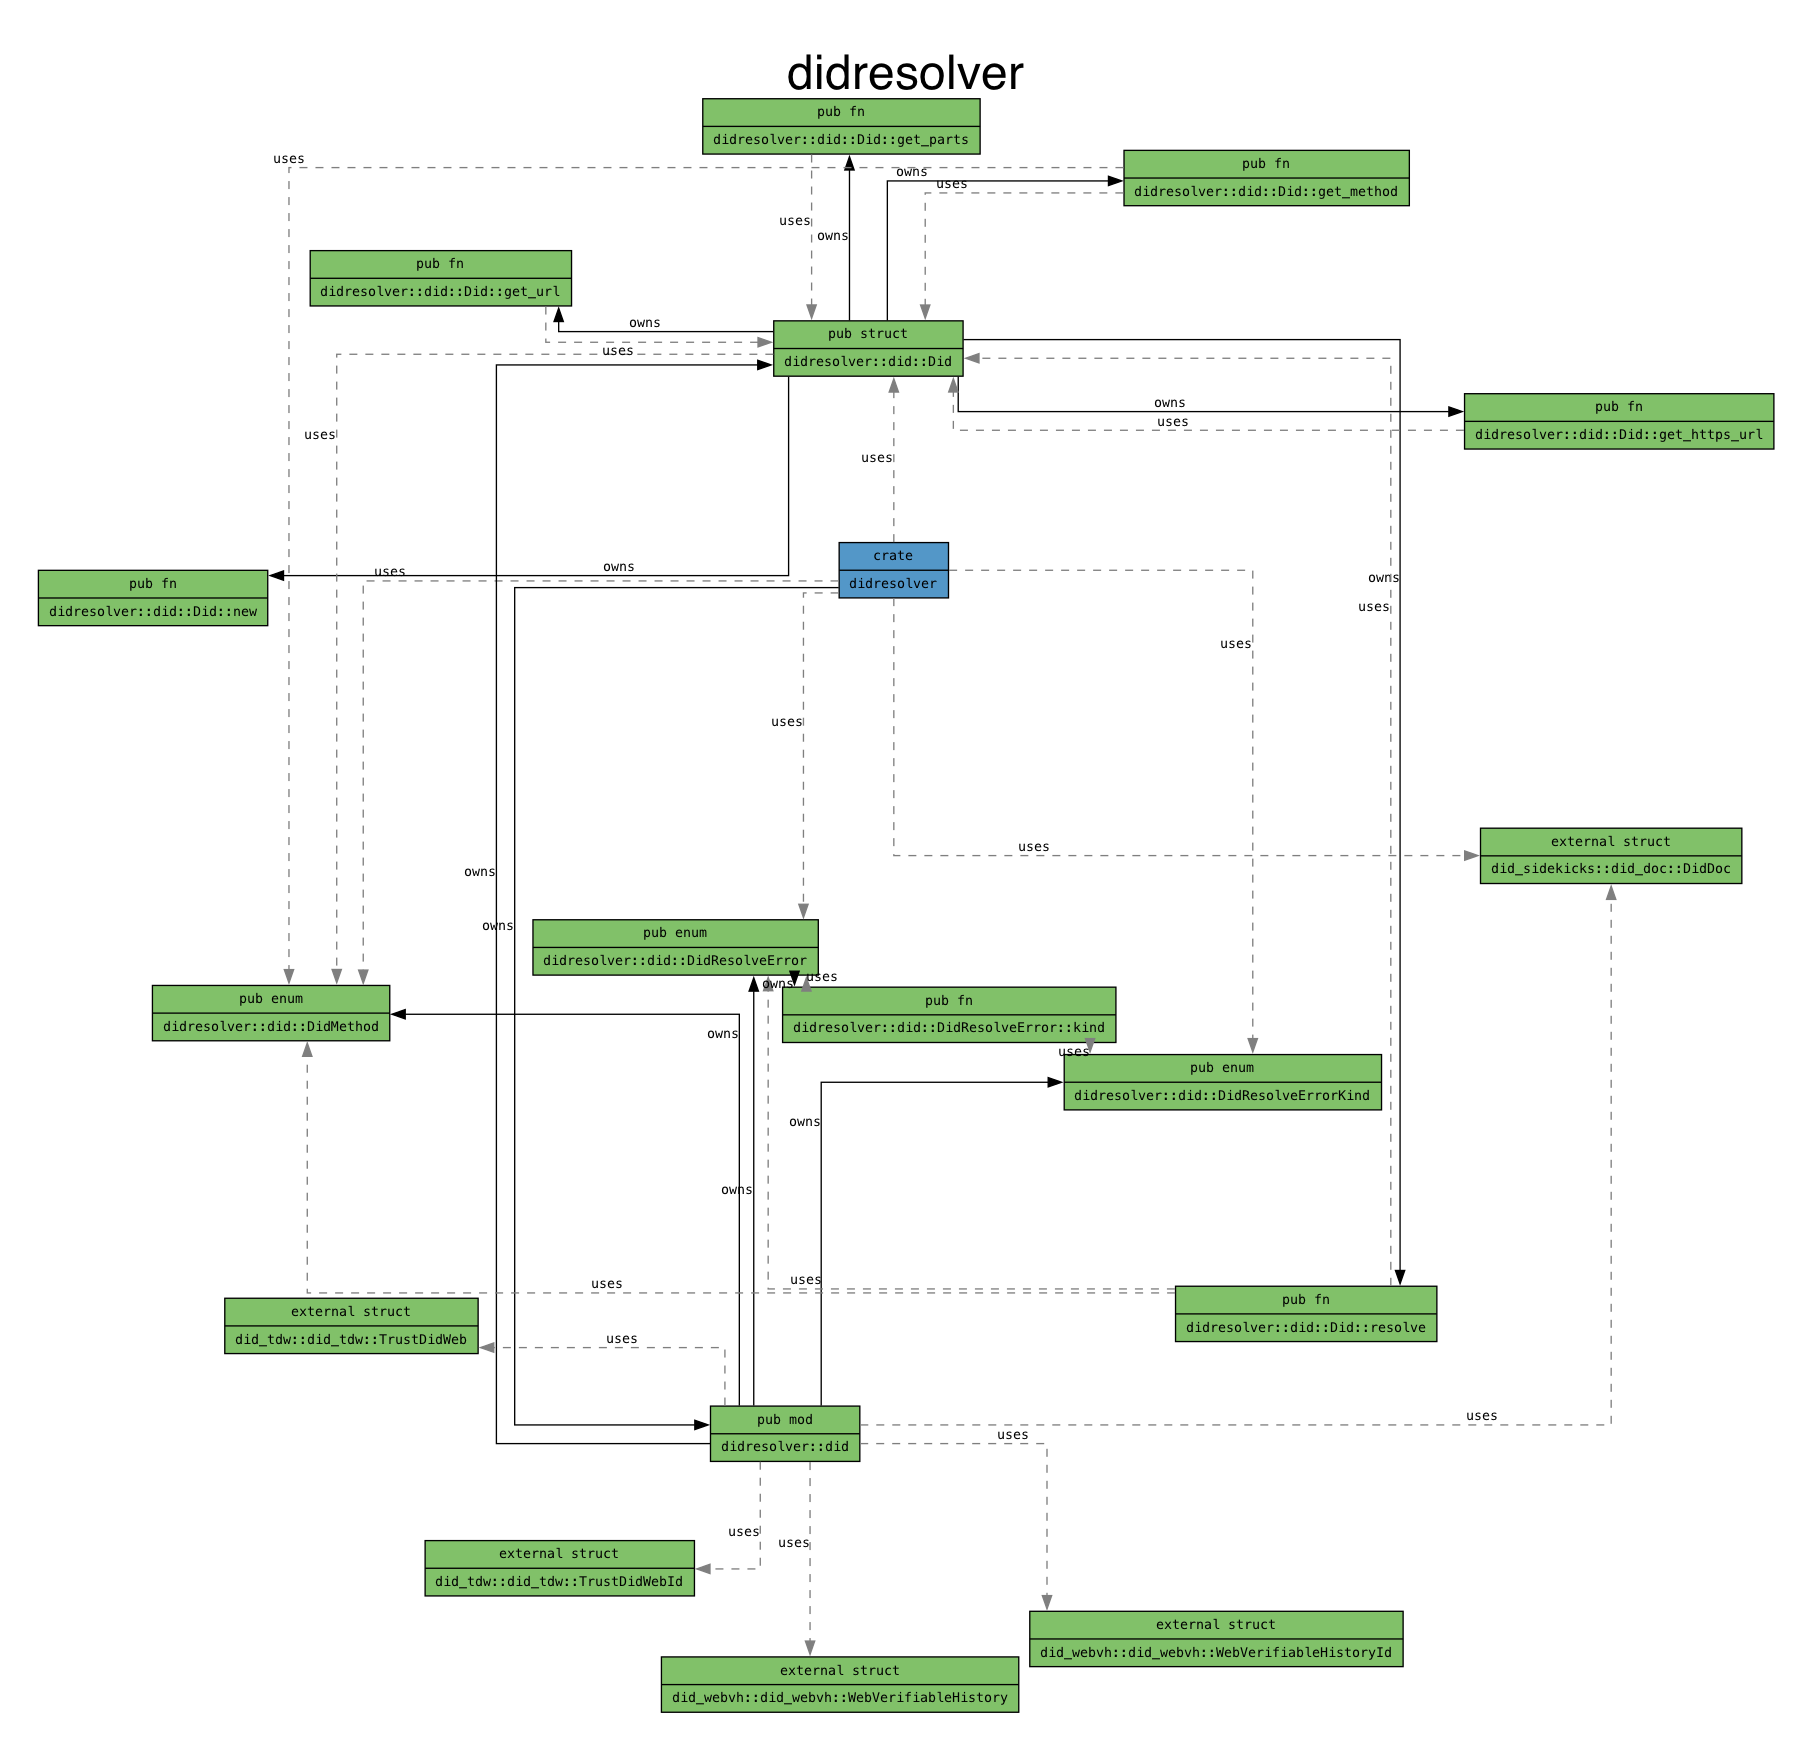
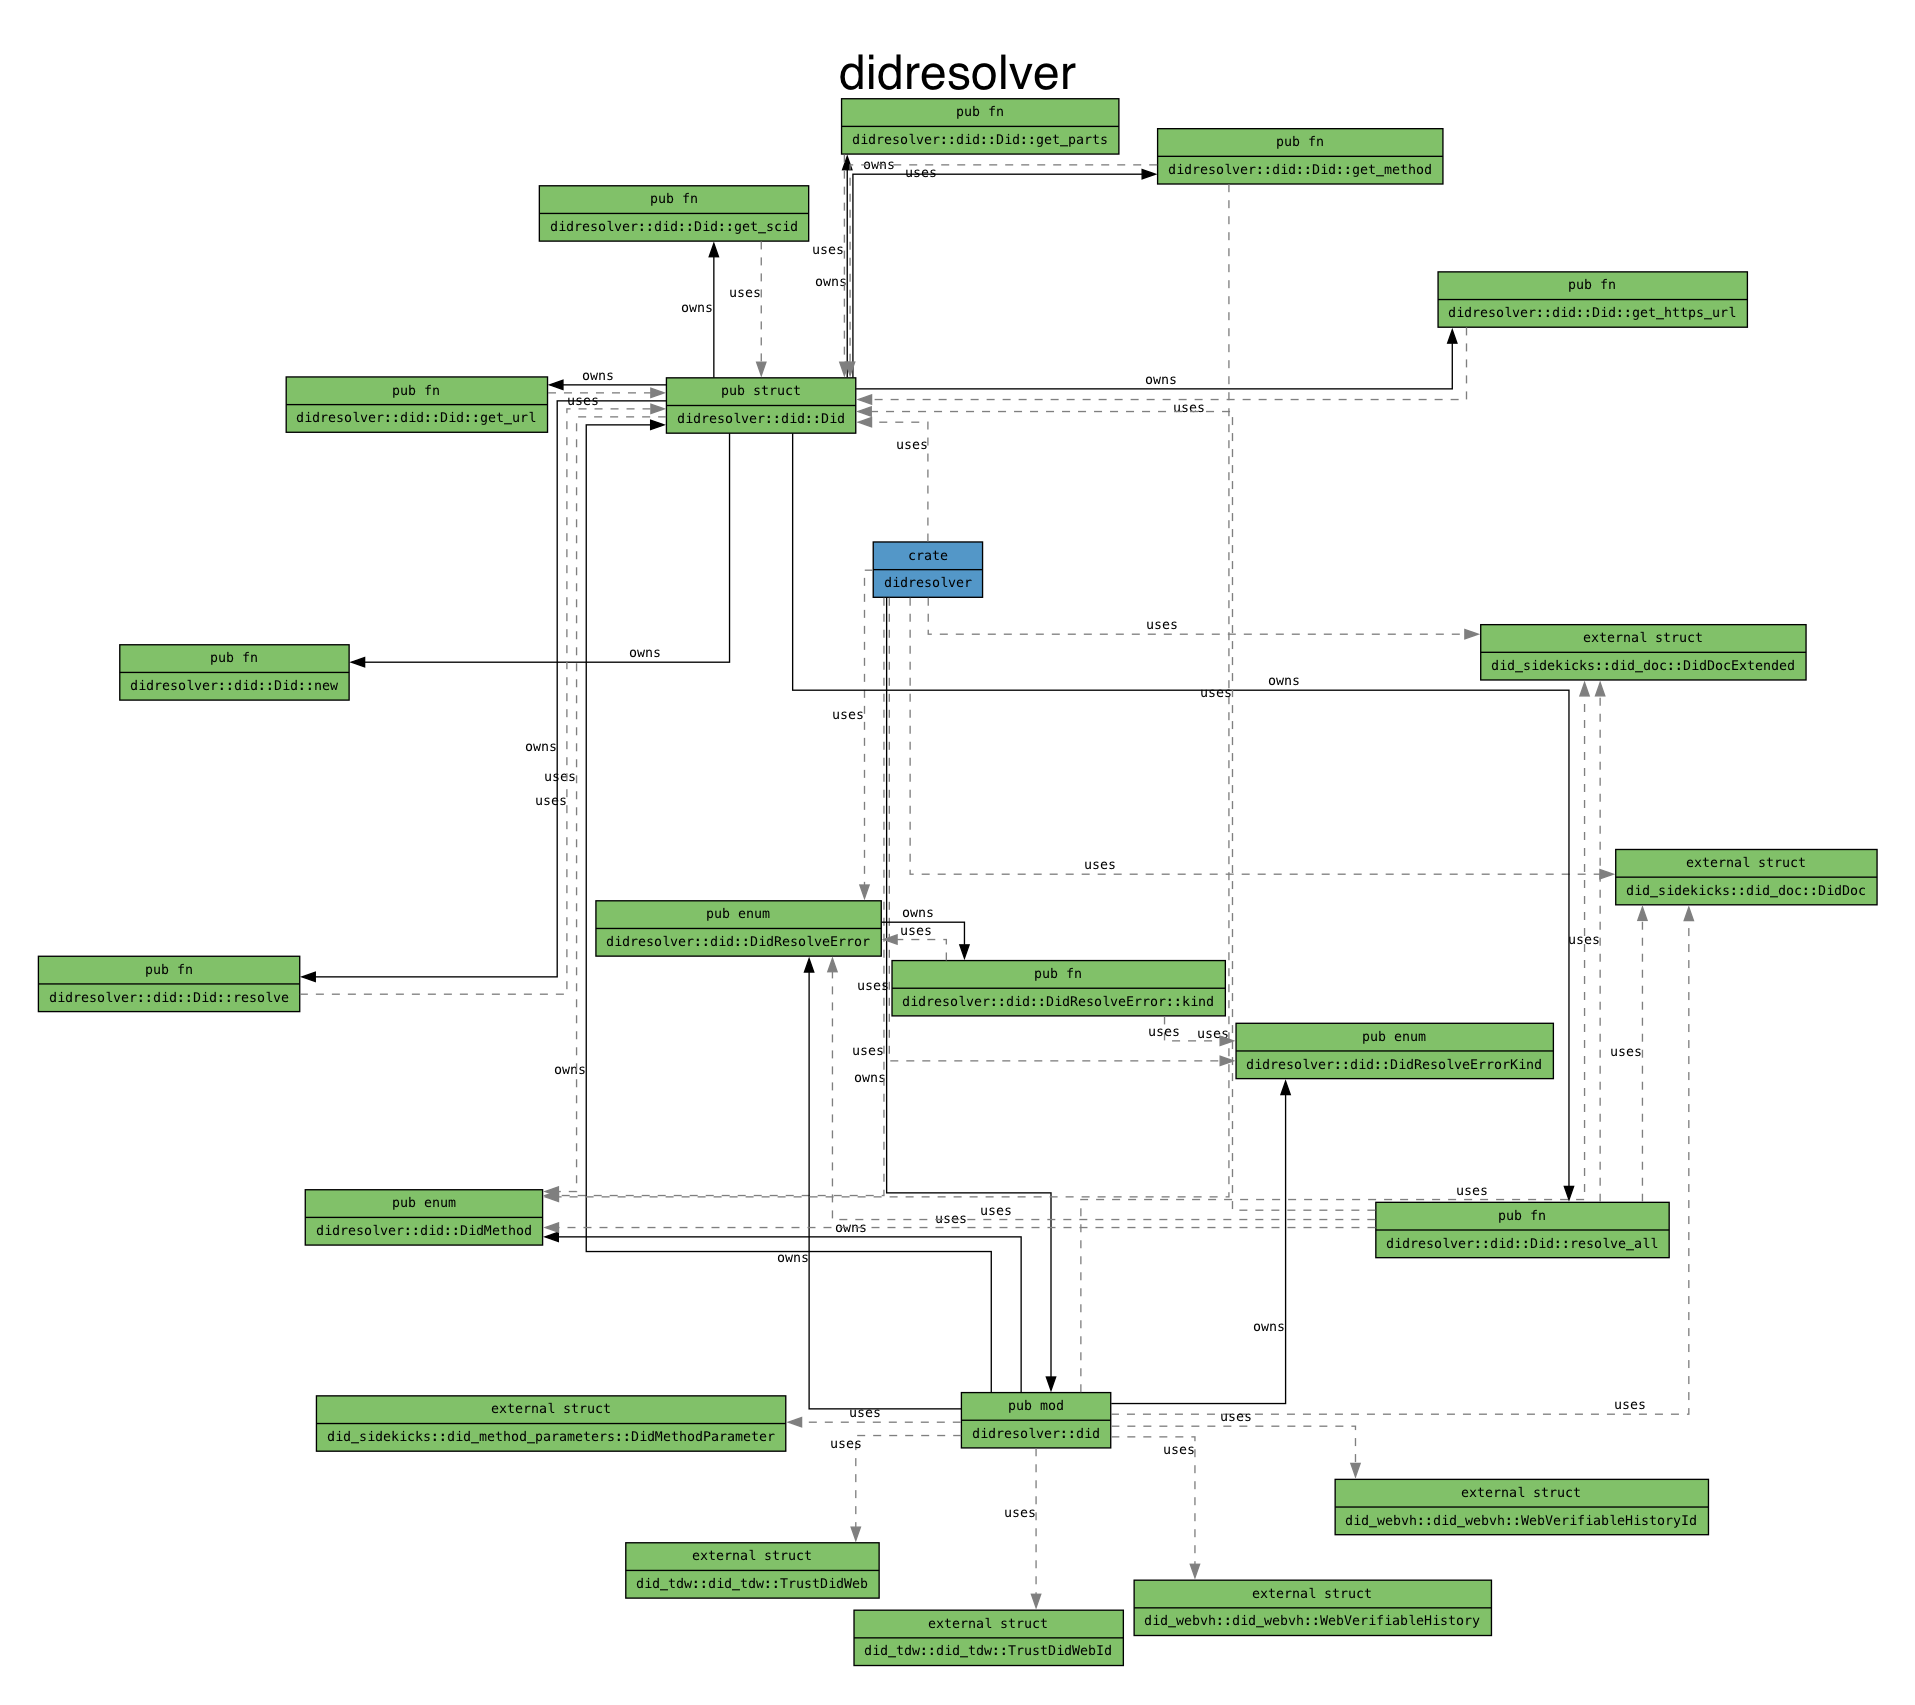
EIDOMNI-126: Did::resolve method deprecated in favor new and more potent Did::resolve_all method delivering DID method parameters

diff --git a/src/did.rs b/src/did.rs
@@ -1,8 +1,10 @@
 // SPDX-License-Identifier: MIT
 
-use did_sidekicks::did_doc::DidDoc;
+use did_sidekicks::did_doc::{DidDoc, DidDocExtended};
+use did_sidekicks::did_method_parameters::DidMethodParameter;
 use did_tdw::did_tdw::{TrustDidWeb, TrustDidWebId};
 use did_webvh::did_webvh::{WebVerifiableHistory, WebVerifiableHistoryId};
+use std::collections::HashMap;
 use std::fmt::{Display, Formatter};
 use std::sync::Arc;
 use strum::{AsRefStr as EnumAsRefStr, Display as EnumDisplay};
@@ -136,23 +138,68 @@ impl Did {
     /// information required to narrow down the root cause.
     ///
     /// A UniFFI-compliant method.
+    #[deprecated(since = "2.2.0", note = "please use more potent `resolve_all` instead")]
     pub fn resolve(&self, did_log: String) -> Result<Arc<DidDoc>, DidResolveError> {
+        match self.resolve_all(did_log) {
+            Ok(resolve_all) => Ok(Arc::new(resolve_all.get_did_doc_obj())),
+            Err(err) => Err(err),
+        }
+    }
+
+    /// The essential method of [`Did`] implementing *Read (Resolve)* DID method operation for:
+    /// - [a `did:tdw` DID](https://identity.foundation/didwebvh/v0.3/#read-resolve) as well as for
+    /// - [a `did:webvh` DID](https://identity.foundation/didwebvh/v1.0/#read-resolve)
+    ///
+    /// In case of error, the available [`DidResolveError`] object features all the detailed
+    /// information required to narrow down the root cause.
+    ///
+    /// Compared to [`Did::resolve`] method, it delivers some additional information
+    /// (the DID processing parameters) used by the `DID Controller`
+    /// when publishing the current and subsequent `DID log entries`. [`DidDocExtended::get_did_method_parameters`]
+    ///
+    /// A UniFFI-compliant method.
+    pub fn resolve_all(&self, did_log: String) -> Result<Arc<DidDocExtended>, DidResolveError> {
         match self.method {
             DidMethod::TDW => match TrustDidWeb::read(self.to_string(), did_log) {
-                Ok(tdw) => match tdw.get_did_doc_obj() {
-                    Ok(doc) => Ok(doc),
-                    Err(e) => Err(DidResolveError::InvalidDidDoc(e.to_string())),
-                },
+                Ok(read_obj) => {
+                    // CAUTION The try_into() method call is possible here as
+                    //         TrustDidWeb type implements the required trait
+                    let did_method_parameters: HashMap<String, Arc<DidMethodParameter>> =
+                        match read_obj.get_did_method_parameters_obj().try_into() {
+                            Ok(did_method_parameters) => did_method_parameters,
+                            Err(err) => {
+                                return Err(DidResolveError::InvalidDidLog(format!("{err}")));
+                            }
+                        };
+
+                    Ok(Arc::new(DidDocExtended::new(
+                        read_obj.get_did_doc_obj(),
+                        did_method_parameters,
+                    )))
+                }
                 Err(e) => Err(DidResolveError::InvalidDidLog(e.to_string())),
             },
             DidMethod::WEBVH => match WebVerifiableHistory::read(self.to_string(), did_log) {
-                Ok(web_vh) => match web_vh.get_did_doc_obj() {
-                    Ok(doc) => Ok(doc),
-                    Err(e) => Err(DidResolveError::InvalidDidDoc(e.to_string())),
-                },
+                Ok(read_obj) => {
+                    // CAUTION The into() method call is possible here as
+                    //         WebVerifiableHistoryDidMethodParameters type implements the required trait
+                    let did_method_parameters: HashMap<String, Arc<DidMethodParameter>> =
+                        match read_obj.get_did_method_parameters_obj().try_into() {
+                            Ok(did_method_parameters) => did_method_parameters,
+                            Err(err) => {
+                                return Err(DidResolveError::InvalidDidLog(format!("{err}")));
+                            }
+                        };
+
+                    Ok(Arc::new(DidDocExtended::new(
+                        read_obj.get_did_doc_obj(),
+                        did_method_parameters,
+                    )))
+                }
                 Err(e) => Err(DidResolveError::InvalidDidLog(e.to_string())),
             },
-            DidMethod::UNKNOWN => Err(DidResolveError::DidNotSupported(String::new())),
+            //DidMethod::UNKNOWN => Err(DidResolveError::DidNotSupported(String::new())),
+            _ => Err(DidResolveError::DidNotSupported(String::new())),
         }
     }
 }
@@ -304,6 +351,7 @@ mod tests {
         let did_log_raw = did_log_raw.unwrap();
 
         let res = did_obj.resolve(did_log_raw);
+
         assert!(res.is_ok(), "ERROR: {:?}", res.err().unwrap());
         let did_doc = res.unwrap();
         assert_eq!(did_doc.id, did);
@@ -326,16 +374,7 @@ mod tests {
[2 lines of base64/hex data omitted]
 "#)]
-    fn test_resolve_did_log(#[case] did: String, #[case] did_log_raw: String) {
-        let did_obj = Did::new(did.clone()).unwrap();
-
-        let did_doc = did_obj.resolve(did_log_raw);
-        assert!(did_doc.is_ok());
-        let did_doc = did_doc.unwrap();
-        assert_eq!(did_doc.get_id(), did)
-    }
-
-    #[rstest]
+    // affinidi-tdk-rs test vector(s)
     // https://raw.githubusercontent.com/affinidi/affinidi-tdk-rs/refs/tags/did-webvh-v0.1.7/crates/affinidi-did-resolver/affinidi-did-resolver-methods/did-webvh/tests/test_vectors/first_log_entry_good.jsonl
     #[case("did:webvh:QmQHjAiCq1N2dbTPKBkH7xpd93FQCgEPxmR2zTXqt4fndY:localhost%3A8000",
[1 lines of base64/hex data omitted]
@@ -348,13 +387,52 @@ mod tests {
     #[case("did:webvh:QmRcxocrbu6F6nDAiWeFBJXHjqgif3NPnuZyHDzxtEpvjx:example.example",
[1 lines of base64/hex data omitted]
 "#)]
-    fn test_resolve_affinidi_test_vectors(#[case] did: String, #[case] did_log_raw: String) {
+    fn test_resolve_all_ok(#[case] did: String, #[case] did_log_raw: String) {
         let did_obj = Did::new(did.clone()).unwrap();
 
-        let did_doc = did_obj.resolve(did_log_raw);
-        assert!(did_doc.is_ok());
-        let did_doc = did_doc.unwrap();
-        assert_eq!(did_doc.get_id(), did)
+        let resolve_all = did_obj.resolve_all(did_log_raw);
+        assert!(resolve_all.is_ok());
+        let did_doc = resolve_all.unwrap();
+        assert_eq!(did_doc.get_did_doc().get_id(), did);
+
+        let params = did_doc.get_did_method_parameters();
+        assert!(!params.is_empty());
+        assert!(params.contains_key("method"));
+        assert!(params.get_key_value("method").is_some_and(|t| {
+            t.1.get_name() == "method"
+                && t.1.is_string()
+                && t.1
+                    .get_string_value()
+                    .unwrap()
+                    .starts_with(format!("{}:", Did::DID).as_str())
+        }));
+        assert!(params.contains_key("scid"));
+        assert!(params.get_key_value("scid").is_some_and(|t| {
+            t.1.get_name() == "scid"
+                && t.1.is_string()
+                && !t.1.get_string_value().unwrap().is_empty()
+                && !t.1.get_string_value().unwrap().len() > 32
+        }));
+        assert!(params.contains_key("update_keys"));
+        assert!(params.get_key_value("update_keys").is_some_and(|t| {
+            t.1.get_name() == "update_keys"
+                && t.1.is_array()
+                && t.1.is_string_array()
+                && !t.1.is_empty_array()
+                && t.1.get_string_array_value().is_some()
+                && !t.1.get_string_array_value().unwrap().is_empty()
+                && t.1.get_string_array_value().unwrap().len() == 1
+                && t.1
+                    .get_string_array_value()
+                    .unwrap()
+                    .iter()
+                    .all(|v| v.len() > 32)
+                && t.1
+                    .get_string_array_value()
+                    .unwrap()
+                    .iter()
+                    .all(|v| v.starts_with("z"))
+        }));
     }
 
     #[rstest]

diff --git a/src/lib.rs b/src/lib.rs
@@ -2,8 +2,8 @@
 
 // IGNORE the 'Unused import' warning - it is required by the UniFFI compiler!
 use crate::did::*;
-// IGNORE the 'Unused import' warning - it is required by the UniFFI compiler!
 use did_sidekicks::did_doc::DidDoc;
+use did_sidekicks::did_doc::DidDocExtended;
 
 pub mod did;
 

diff --git a/README.md b/README.md
@@ -103,9 +103,11 @@ crate didresolver
     │   ├── fn get_https_url: pub
     │   ├── fn get_method: pub
     │   ├── fn get_parts: pub
+    │   ├── fn get_scid: pub
     │   ├── fn get_url: pub
     │   ├── fn new: pub
-    │   └── fn resolve: pub
+    │   ├── fn resolve: pub
+    │   └── fn resolve_all: pub
     ├── enum DidMethod: pub
     ├── enum DidResolveError: pub
     │   └── fn kind: pub
